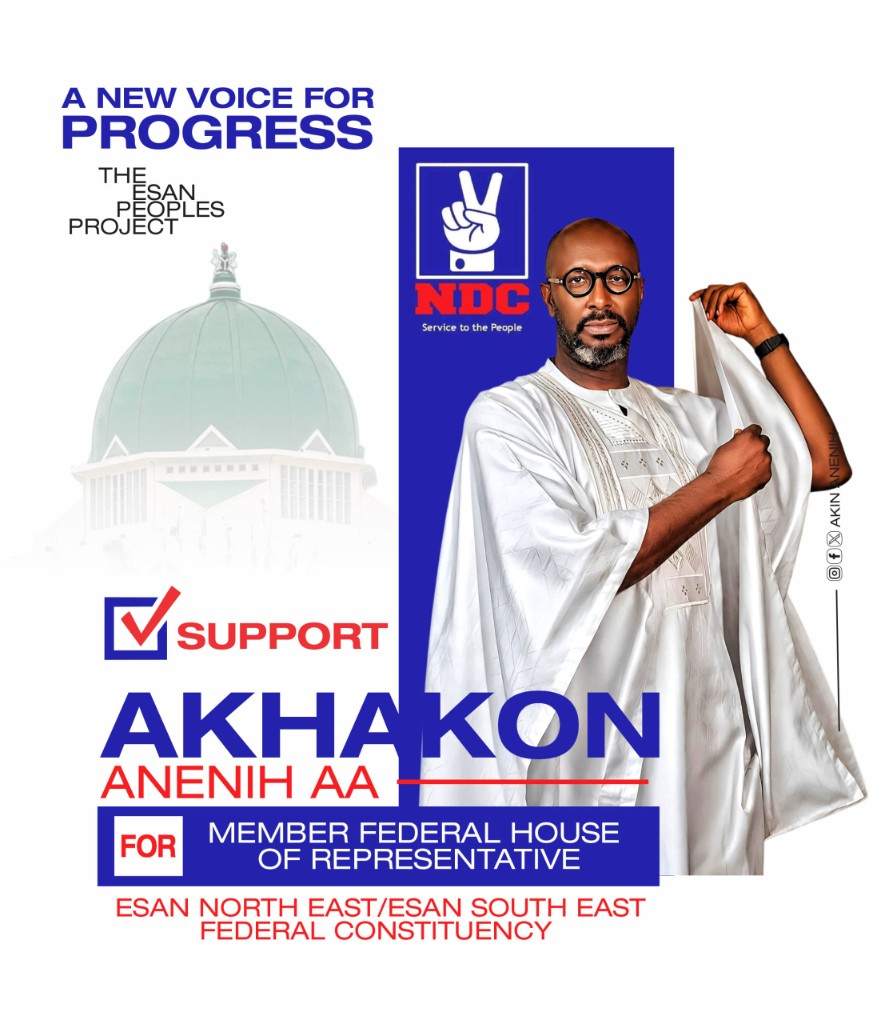
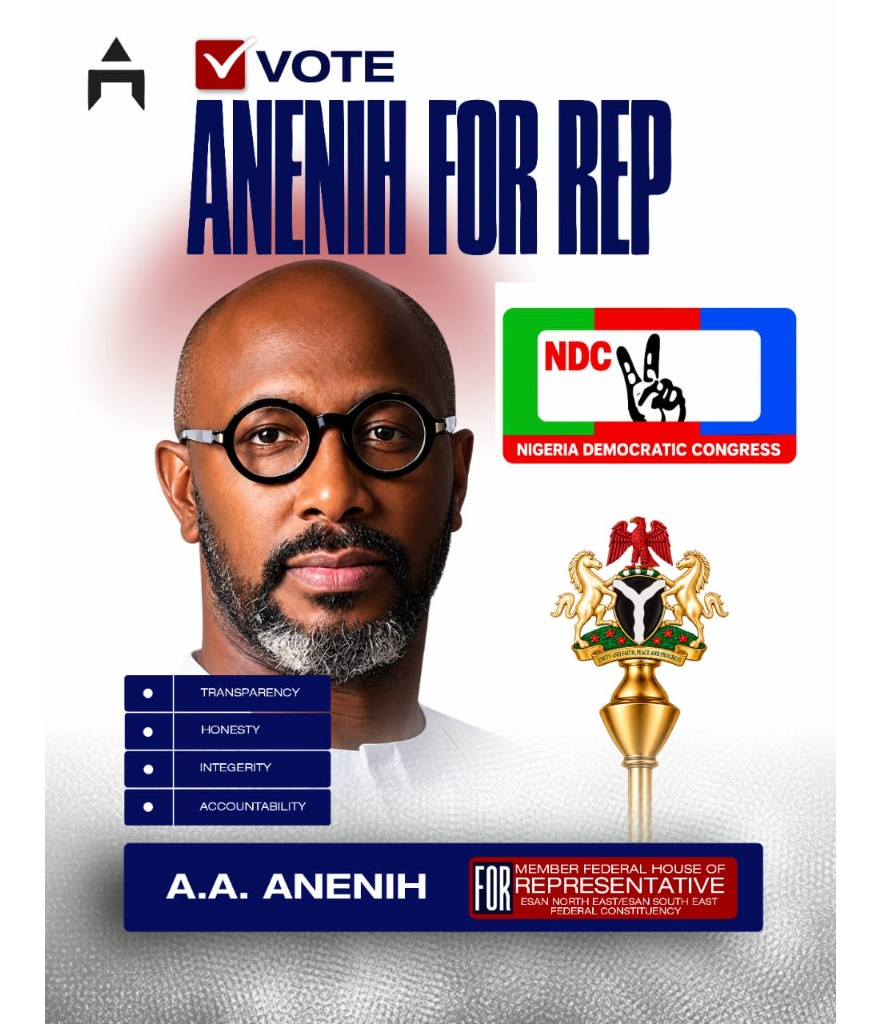
Replace the campaign poster with the new Vote Anenih for Rep artwork.

diff --git a/index.html b/index.html
@@ -78,10 +78,10 @@
         <figure class="hero-poster">
           <img
             class="hero-poster-img"
-            src="assets/akhakon-poster.png"
-            alt="A New Voice for Progress — Support Akhakon Anenih AA for Member Federal House of Representatives, Esan North East &amp; Esan South East Federal Constituency. NDC — Service to the People."
-            width="880"
-            height="990"
+            src="assets/akhakon-poster.png?v=20260902"
+            alt="Vote Anenih for Rep — A.A. Anenih for Member Federal House of Representatives, Esan North East / Esan South East Federal Constituency. NDC — Nigeria Democratic Congress."
+            width="881"
+            height="1024"
             loading="eager"
             decoding="async"
           >
